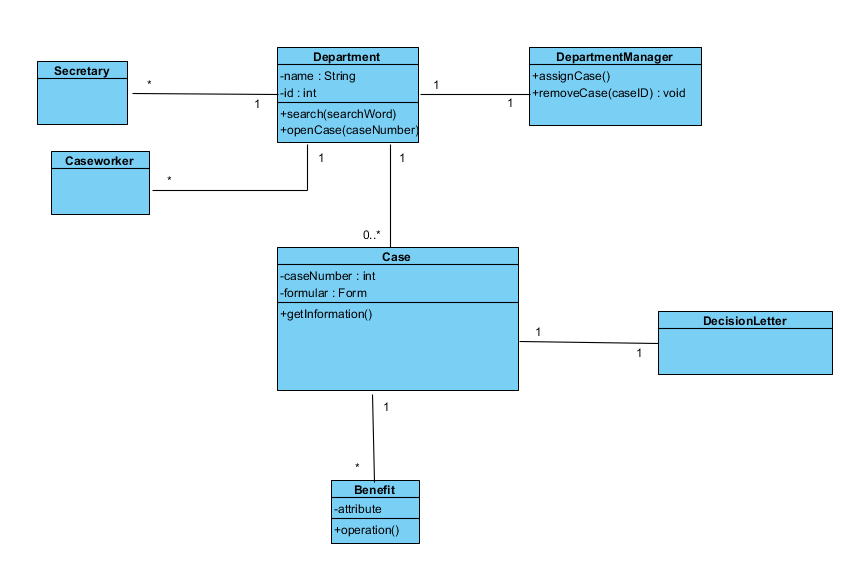
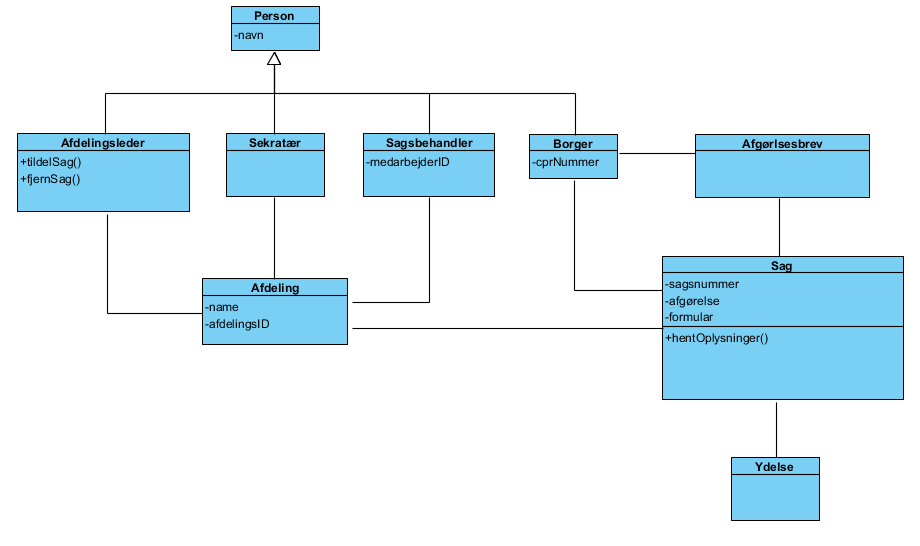
just everyday life
small changes

diff --git a/Dokumentation/Raporten/Indledning.tex b/Dokumentation/Raporten/Indledning.tex
@@ -1,19 +1,18 @@
-Giver indledningen et overblik over projektet og baggrunden for det?\\
-Giver indledningen et resume af den udleverede case?\\
-Indeholder indledningen problemformuleringen, jfr. inceptiondokumentet?\\
-Beskriver indledningen formålet med projektet?\\ Er formålet i overensstemmelse med hensigten med 2. semester? \\
-Beskriver indledningen målene med projektet? Udtrykker målene specifikke, målbare resultater, jfr. inceptionsdokumentet? \\
-Er målene i overensstemmelse med de overordnede mål for 2. semester som udtrykt i studieordningens kap. 9 og de mere specifikke mål for projektet, som udtrykt i fagbeskrivelsen for SI2-PRO?
+\chapter{Indledning}
+Gruppen har fået udleveret en case som omhandler systemerne Sensum Bosted og Sensum som er udviklet af EG Team Online. Sensum Bosted og Sensum er systemer der understøtter det samlede behov i den offentlige og private social- og sundhedssektor.\\
+Systemet har hidtil været opdelt i to forskellige systemer det ene er Sensum Bosted og det andet er Sensum, begge dele er modulopbygget plug-and-play, som gør det muligt at tilpasse systemet til kundens behov. Sensum Bosted er det system som har fokus på at digitalisere den daglige arbejdsproces på bostederne, og understøtter alle former for dokumentationsbehov på socialområdet. Sensum er et sags- og udredningssystem der skaber et overblik over sagsbehandlingen, faciliterer og kommunens arbejdsprocesser. Systemet er et DHUV-system 
+\footnote{\url{https://socialstyrelsen.dk/tvaergaende-omrader/sagsbehandling/vum-og-dhuv}} 
+ ”Digitalisering af Handicap og Udsatte Voksne”, som en proces beskrevet under VUM ”Voksen Udrednings Modellen”.\\
+Virksomheden ønsker en belysning af tre moduler: planlægning, sagsudredning og dagbogen.\\
+Planlægningsmodulet er et værktøj hvor et botilbud kan tilrettelægge en borgers hverdag igennem en illustration med piktogrammer, som beskriver de aktiviteter borgeren skal nå den givende dag.\\
+Sagsudredningsmodulet er den del af systemet hvor i sagsbehandlerne på kommunen udreder borgerne jfr. VUM-metoden 
+\footnote{\url{https://socialstyrelsen.dk/tvaergaende-omrader/sagsbehandling/vum-og-dhuv}}
+ , og tildeler ydelser som f.eks. behandling på et misbrugscenter eller botilbud for handicappet.\\
+Dagbogsmodulet bruges til journalføring på borgerne. Der bliver både skrevet i journal af sagsbehandlerne i løbet af udredningen og på botilbuddet som daglig notatføring. Dele af dagbogen bliver automatisk genereret af system, det er f.eks. når borgeren er tildelt en ydelse eller når der bliver udleveret medicin.\\
 
 \section{Problemformulering}
 
-
-Salget af KMD førte til etableringen af det kommunale IT-fællesskab KOMBIT\footnote{\url{ https://www.kombit.dk/KOMBIThistorie}}, som arbejder på at sikre de bedste og billigste IT-løsninger set ud fra kommunernes behov. De kommunale behov blev tidligere varetaget af KMD, men som resultat af deres monopolbrud, valgte KOMBIT at udbyde disse behov til forskellige IT-leverandører . Dette skabte muligheden for at EG Team Online kunne træde ind på det kommunale IT-marked.
-Allerede i 2005 præsenterede EG Team Online, dengang kendt som Team Online, deres første store system inden for velfærdsområdet, Sensum Bosted, dengang kendt som Bosted System. Dette system var revolutionerende inden for lokale bosteder og institutioner som arbejder med patientbehandling. Ved at digitalisere journaler og andre former for papirarbejde, blev socialarbejdernes arbejdsbyrde mindsket og deres effektivitet øget. I 2007 modtog Team Online ansvaret for it-løsninger hos Fyns Amt bo- og aktivitetsstedet Lindebjerg. Efterfølgende har virksomheden udviklet sig til at være en leverandør inden for innovativ teknologi med speciale i løsninger, der understøtter det samlede behov i den offentlige og private social- og sundhedssektor.\\ \\
-I 2018 blev GDPR indført af EU-kommissionen, hvilket gjorde at den danske regering tilpassede den danske datalovgivning til GDPR. Denne ratificering betød at alle IT-selskaber skulle følge nye regler angående håndtering af persondata. Derfor er EG Team Online ved at tilpasse deres produkt.\\
-\\
-Gruppen har fået udleveret en case som omhandler et system udviklet af EG Team Online. Virksomheden ønsker en belysning af tre moduler: planlægning, sagsudredning og dagbogen. Gruppen har diskuteret afgrænsning i forhold til de specifikke moduler, hvor der var en interesse i hvordan flere roller i systemet interagerer med hinanden. I forhold til persondatalovgivningen har virksomheden beskrevet en dataafgrænsning i casen hvor de beskriver hvem der må kunne interagere med hvad i systemet. På baggrund af de strengere regler om persondata, blev det nødvendigt at opdatere systemet.
- 
+Gruppen har diskuteret afgrænsning i forhold til de specifikke moduler, hvor der var en interesse i hvordan flere roller i systemet interagerer med hinanden. I forhold til persondatalovgivningen har virksomheden beskrevet en dataafgrænsning i casen hvor de beskriver hvem der må kunne interagere med hvad i systemet. På baggrund af de strengere regler om persondata, blev det nødvendigt at opdatere systemet.
 
 \textbf{\\Gruppen kom frem til følgende hovedspørgsmål.}\\ \\
 \noindent\fbox{%

diff --git a/Dokumentation/Raporten/Metoder.tex b/Dokumentation/Raporten/Metoder.tex
@@ -1,12 +1,36 @@
-\section{Metoder}
-Er metoden i det samlede projekt beskrevet?\\
-Er det beskrevet hvordan UP og Scrum kombineres i projektet, samt hvilke fordele og ulemper der er ved det?\\
+\chapter{Metoder}
+Metoder er en vigtig del af et projekt, som udformer væsentlige resultater og holder styr på fremgangen. Der vil under metodeafsnittet beskrives de metoder som har været anvendt under hele projektet, som f.eks. UP, kanban og par produktion. (Afsnit 7.1) \\
+Unified Process (forkortet UP) er en iterativ, inkrementel og brugsmønster-drevet software udviklingsproces. UP bliver brugt med en kombination af den agile metode Scrum der er en trinvis og iterativ tilgang til udarbejdelse af et produkt. Gruppens anvendelse og kombination af disse beskrives. (Afsnit 7.2) \\
+Til sidst bliver der uddybet beskrivelserne af Scrum’s forskellige egenskaber som f.eks. Scrum backlog, ceremonier m.m. (Afsnit 7.3) \\
 
-\subsection{Indledning til metoder}
-Giver indledningen en introduktion til  afsnittet?\\
-\subsection{Metoder}
-Er metoden i det samlede projekt beskrevet?\\
-Er det beskrevet hvordan UP og Scrum kombineres i projektet, samt hvilke fordele og ulemper der er ved det?\\
+\section{Samlede metoder}
+Under starten af projektet blev der holdt et møde omkring hvordan og hvilket metoder der kunne og skulle anvendes. Under dette møde blev der forklaret hvilke metoder hvert enkelt gruppemedlem anvendte i deres projekt. Til det blev der diskuteret hvilke metoder der med fordel kunne anvendes i nuværende projekt, hvor der blev udvalgt de mest væsentlige og effektive metoder. Ydermere blev der gjort krav til at anvende UP og Scrum som læner sig op ad den agile metodologi. \\
+\textbf{ Unified process (UP)} har været anvendt igennem hele projektet der er blanding af agile og planlægnings metode. Den består af forskellige faser, dvs. forberedelsesfase (inception), etableringsfase (elaboration), konstruktionsfase (construction) og overdragelsesfase (transition). Projektetrammen begrænser projektet i det omfang at forberedelsesfasen og etableringsfasen er de faser der skal fokuseres på. Dette fokus er bestemt for at tilrettelægge et projekt uden at fokus går på programmering selv.\\ 
+\emph{Inceptionsfasen} er en kort fase der har til formål at give et overblik over de indhentede krav. Hovedtrækkene i fasen handler om at:\\
+\begin{itemize}
+\item Forstå hvad der skal bygges
+\item Identificere de væsentlige funktioner i systemet, og beskrive dem ved at bruge brugsmønstre
+\item Identificere projektets plan og kritiske risici
+\item Udvælge udviklingsværktøjer til selve udviklingsprocessen
+\end{itemize}
+\emph{Elaborationsfasen} handler om at analysere problemdomænet og tilegne sig en endelig forståelse af hele systemet. Hovedtrækkene handler om at: \\
+\begin{itemize}
+\item Designe brugsmønstrene
+\item Producere en arkitektonisk baseline for systemet som skal bygges
+\end{itemize}
+\textbf{Kanban} er en mindre formel metode end Scrum der bliver brugt til at holde styr på hvilke opgaver der skal laves og hvem der arbejder på opgaverne gennem hele projektet. Formålet med at anvende kanban i projektet har været at holde styr på de opgaver der skulle bearbejdes i løbet hver iteration. Den har fungeret effektivt i forhold til opdeling af opgaverne, hvor hvert par kunne blive tildelt en opgave. Til fordel for kanban blev værktøjet GitKranken Glo brugt som et virtuelt whiteboard for at holde styr på de forskellige opgaver og milepæle. \\
+\\
+\textbf{Par produktion} er en agil metode, beskrivelsen af definitionen kan findes i bilag … under metodeafsnittet. \\
+Metoden er blevet anvendt under hele projektet, som har haft den fordel at udarbejdelsen af opgaverne blev mere effektive og produktive. Samtidigt blev der holdt styr på de opgaver der skulle arbejdes på hver uge. 
+\\ \\
+\textbf{Scrum} er en agil metode, beskrivelsen af Scrum kan findes i bilag … under metodeafsnittet.
+I projektgruppen er der blevet besluttet at bruge dele af Scrum, der består af roller, herunder et team som består af gruppemedlemmerne. Ceremonier herunder daglige Scrum møder. Artefakter herunder produkt backlog. Det er ikke blevet fundet nødvendigt at anvende hele Scrum frameworket er ikke nok mennesker til at kunne bruge Scrum i det omfang at kunne benytte hele Scrum. Ydermere har vi ikke den nødvendige viden til at kunne benytte det, f.eks. har vi ikke en Scrum master eller product owner. \\
+
+\subsection{Kombination af Scrum og UP}
+Igennem hele projektforløbet er der blevet anvendt Unified Process. \\
+Det betyder at der arbejdes i faser, hvor gruppen ender med at være igennem Inception- og elaborationsfasen. \\
+Efter introduktionen til Scrum, er der i gruppen blevet valgt at kombinere noget af Scrum metoden med resten af metoderne. \\
+Der anvendes Scrumbot, hvilket betyder at der er lavet en liste over spints og de iterationer som der udarbejdes igennem sprintene.\\
 \subsection{Planlægning}
 Er planlægningen af elaborationsfasen og de enkelte iterationer beskrevet.\\
 Er backlogs beskrevet?\\

diff --git a/Dokumentation/Raporten/Analyse.tex b/Dokumentation/Raporten/Analyse.tex
@@ -3,6 +3,12 @@ Der er blevet lavet en række diagrammer over de forskellige detaljeret brugsmø
 Der er to forskellige typer af analyse diagrammer, der er de dynamiske og de statisk.
 
 \subsection{Statiske side af analysen}
+Klasse diagrammet består af 9 klasser: Afdeling, Sag, Afgørelsesbrev, Ydelse, Person, Sekretær, Sagsbehandler, Afdelingsleder og Borger. De to mest centrale klasser i diagrammet er Afdeling og Sag, som skaber grundlaget for systemet. \\ \\
+Afdeling består af attributterne ”navn” og ”afdelingsID”, som blev valgt for at muliggøre identifikationen af et bosted. Klassen er central for systemet da den skal bruges til at administrere dem som arbejder i en afdeling og hvilke sager de er ansvarlige for. \\ \\
+Sag er en klasse, som består af attributterne ”sagsnummer”, ”afgørelse” og ”formular”, samt metoden ”hentOplysninger()”. Klassen udgør omdrejningspunktet i arbejdet med sagsbehandling, da Sag klassen skal bruges i forbindelse med behandling af borgere. Attributten, ”formular”, repræsentere de dokumenter der skal udfyldes, i følge VUM (voksenudredningsmetoden), af personalet f.eks. sagsbehandler. \\ \\
+Sag er forbundet til Afdeling for at indikere at en sag behandles i en specifik afdeling.\\
+Ydelse er en klasse som repræsenterer hvilke botilbud og lignende som tildeles en borger ud fra deres behov. Ydelse er forbundet til Sag, da den tildeles baseret på en vurdering af en specifik sag. En borger kan modtage flere ydelser, men disse ydelser er alle baseret på de specifikke sager som berør den enkelte borger.\\ \\
+Borger klassen repræsenterer en person som skal registreres i systemet for at modtage et givent tilbud. Borger klassen har attributten ”cpr-nummer”, som bruges til at identificere den borgeren. Yderligere arver Borger klassen fra Person, som giver attributten ”navn”.\\ \\
 \begin{figure}
   \includegraphics[width=\linewidth]{./PNG/analyseKlasseDiagram.PNG} 
   \caption{Analyse klasse diagram.}

diff --git a/Dokumentation/Raporten/Projektforslag.tex b/Dokumentation/Raporten/Projektforslag.tex
@@ -1,0 +1,56 @@
+\pagenumbering{roman}
+\section{Projektforslag}
+\begin{figure}[hb]
+\begin{center}
+  \includegraphics[scale = 0.33]{./PNG/Projektforslag/Projektforslag-01.jpg} 
+\end{center}
+\end{figure}
+
+\begin{figure}[hb]
+  \includegraphics[scale = 0.33]{./PNG/Projektforslag/Projektforslag-02.jpg} 
+\end{figure}
+
+\begin{figure}[hb]
+  \includegraphics[scale = 0.33]{./PNG/Projektforslag/Projektforslag-03.jpg} 
+\end{figure}
+
+\begin{figure}[hb]
+  \includegraphics[scale = 0.33]{./PNG/Projektforslag/Projektforslag-04.jpg} 
+\end{figure}
+
+\begin{figure}[hb]
+  \includegraphics[scale = 0.33]{./PNG/Projektforslag/Projektforslag-05.jpg} 
+\end{figure}
+\begin{landscape}
+\begin{figure}[hb]
+  \includegraphics[scale = 0.33]{./PNG/Projektforslag/Projektforslag-06.jpg} 
+\end{figure}
+\end{landscape}
+
+\begin{figure}[hb]
+  \includegraphics[scale = 0.33]{./PNG/Projektforslag/Projektforslag-07.jpg} 
+\end{figure}
+
+\begin{figure}[hb]
+  \includegraphics[scale = 0.33]{./PNG/Projektforslag/Projektforslag-08.jpg} 
+\end{figure}
+
+\begin{figure}[hb]
+  \includegraphics[scale = 0.33]{./PNG/Projektforslag/Projektforslag-09.jpg} 
+\end{figure}
+
+\begin{figure}[hb]
+  \includegraphics[scale = 0.33]{./PNG/Projektforslag/Projektforslag-10.jpg} 
+\end{figure}
+
+\begin{figure}[hb]
+  \includegraphics[scale = 0.33]{./PNG/Projektforslag/Projektforslag-11.jpg} 
+\end{figure}
+
+\begin{figure}[hb]
+  \includegraphics[scale = 0.33]{./PNG/Projektforslag/Projektforslag-12.jpg} 
+\end{figure}
+
+\begin{figure}[hb]
+  \includegraphics[scale = 0.33]{./PNG/Projektforslag/Projektforslag-13.jpg} 
+\end{figure}

diff --git a/Dokumentation/Raporten/Hovedtekst.tex b/Dokumentation/Raporten/Hovedtekst.tex
@@ -1,8 +1,8 @@
 Hvis der indgår et teoretisk problem: Omfatter hovedteksten et teori-afsnit?\\
 \section{Indlening til hovedafsnit}
 Indeholder indledningen en overordnet introduktion til afsnittet?\\
-\section{Første elaborationsfasen}
-\subsection{Indledning til første elaborationsfasen}
+\section{Første iteration}
+\subsection{Indledning til første iteration}
 Formålet med elaborationsfasen er at skabe en interaktiv udvikling af produktet MMMI´s\footnote{{mangfoldig manager management instruments}} funktionalitet. Denne udvikling sker på baggrund af inceptionsfasen\footnote{{Bilag : Inceptionss dokumentet}}, hvor der blev opstillet en række krav til MMMI-projektet.  For at kunne nå de mål bliver der lagt lavet nogle mindre iterationer her under krav, analyse, design, kode og test som arbejdes med ud fra de overordnede kravspecifikationer. Målet er at får en funktionel kode færdig til elaborationsmilepælen. 
 
 
@@ -33,11 +33,6 @@ Omfatter afsnittet implementering af database.
 
 \begin{figure}
 \begin{lstlisting}
-/**
-     *
-     * @param searchWord
-     * @return
-     */
     public List<Case> search(String searchWord) {
 
         List<Case> listCases = new ArrayList<>();

diff --git a/Dokumentation/Raporten/Interne_bilag.tex b/Dokumentation/Raporten/Interne_bilag.tex
@@ -1,14 +1,14 @@
 \pagenumbering{roman}
 Er undersectionerne sat ind?\\
 er kontrolskemaet udfyldt?
-\section{Projektforslag}
+\include{Projektforslag}
 
 \section{Inceptionsdokument}
 
 \section{Rapportkontrolskema}
 
 \begin{center}
-\begin{tabular}{| m{3.5cm} | m{10cm} | m{2.5cm} |}
+\begin{longtable}{| m{3.5cm} | m{10cm} | m{2.5cm} |}
 
 \hline
 Kapitel & krav & opfyldt $+/-$ \\ \hline
@@ -43,7 +43,7 @@ Afsnit c & Person c & Person b & Person a,b,c \\ \hline
 \hline
 
 
-\end{tabular}
+\end{longtable}
 \end{center}
 
 \section{Diverse interne materialer}

diff --git a/Dokumentation/Raporten/ProjektRapporten.tex b/Dokumentation/Raporten/ProjektRapporten.tex
@@ -1,6 +1,6 @@
 \documentclass[12pt]{report}
 
-
+\usepackage[danish]{babel}
 \usepackage{microtype}
 \usepackage[a4paper,top=3cm,bottom=3cm,left=1.5cm,right=1.5cm,marginparwidth=1.75cm]{geometry}
 \usepackage{fancyhdr}
@@ -11,6 +11,7 @@
 \usepackage{etoolbox}
 \usepackage{amsmath}
 
+\usepackage{lscape} % lig siden ned. 
 \usepackage{longtable} % table
 \usepackage{hyperref} % hyperlinks
 \usepackage{xcolor}
@@ -102,9 +103,7 @@
 
 \chapter{Redaktionelt}
 \input{Redaktionelt}
-
 \newpage
-\chapter{Indledning}
 \input{Indledning}
 \input{Metoder}
 

diff --git a/Dokumentation/Raporten/DesignStatisk.tex b/Dokumentation/Raporten/DesignStatisk.tex
@@ -1,0 +1,5 @@
+\subsection{DesignStatisk}
+Diagrammet beskriver de klasser vi har fundet der skal implementeres i systemet. Hver klasse har attributter, skal have skrives getter /setter metoder til en del af dem, men for at diagrammet ikke skal blive for stort og uoverskueligt har vi valgt ikke at tilføje dem der.\\
+\begin{figure}[h]
+\includegraphics[width = \linewidth]{./PNG/designklassediagram.PNG}
+\end{figure}

diff --git a/Dokumentation/Raporten/frontpage.tex b/Dokumentation/Raporten/frontpage.tex
@@ -25,8 +25,11 @@
 \begin{flushright} \large
 \emph{Gruppe medlemer:} \\
 Steffen \\ 
-per  \\
-aleksander  \\[1.2em] 
+Per  \\
+Matias \\
+Aslak \\ 
+Aleksander H\\
+Aleksander B \\ [1.2em]
 \emph{Vejleder:} \\
 Henrik % second marker's name
 \end{flushright}

diff --git a/Dokumentation/Raporten/Design.tex b/Dokumentation/Raporten/Design.tex
@@ -1,1 +1,5 @@
 \section{Design}
+
+\include{DesignStatisk}
+
+\include{DesignDynamisk}

diff --git a/Dokumentation/Raporten/DesignDynamisk.tex b/Dokumentation/Raporten/DesignDynamisk.tex
@@ -1,0 +1,1 @@
+\subsection{DesignDynamisk}
